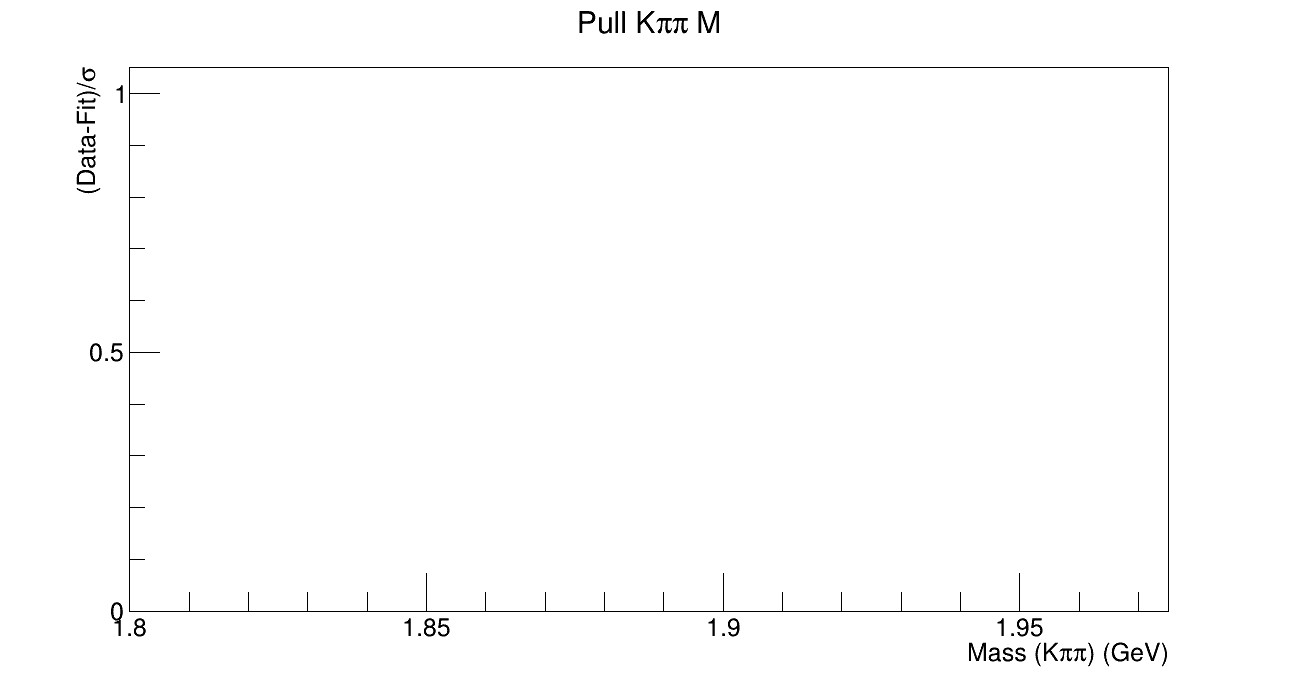
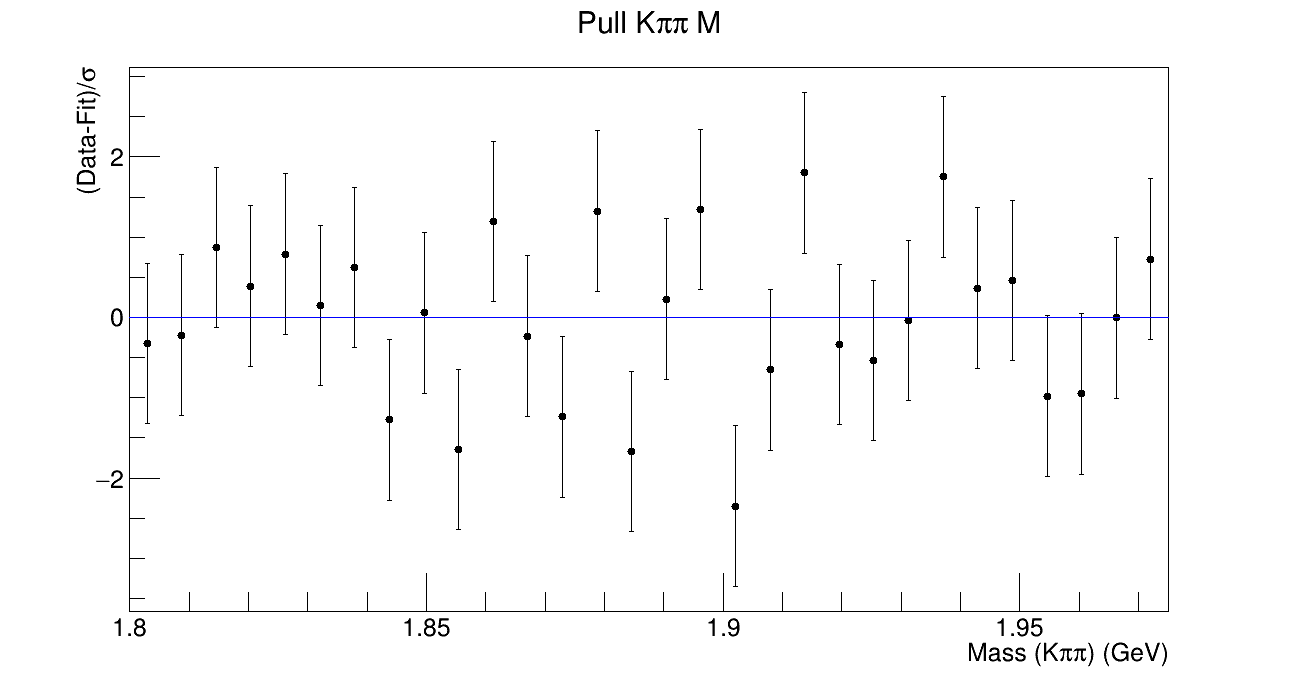
Por fin dio el Pull

diff --git a/Codes/DoubleGaussiansMC.C b/Codes/DoubleGaussiansMC.C
@@ -102,18 +102,14 @@ int DoubleGaussiansMC(){
     Data_M->plotOn(Mframe,DataError(RooAbsData::SumW2),MarkerSize(1.0),XErrorSize(0));
     MassModel.plotOn(Mframe,DrawOption("F"),FillColor(0),LineWidth(2),Name("fittotal"));
 
+    // Histograma Pull
+    RooHist* hpullm2 = Mframe->pullHist() ;
+
     // Dibujar el frame
     MassModel.plotOn(Mframe,Components(Bkg),LineColor(kBlue),LineWidth(2),LineStyle(kDashed),Name("bkg")); 
     Data_M->plotOn(Mframe,DataError(RooAbsData::SumW2),MarkerSize(1.0),XErrorSize(0),Name("Data"));
     MassModel.plotOn(Mframe);
     Mframe->SetTitle(""); 
-
-    // Histograma Pull
-    RooPlot* Pullframe = M.frame(0.14,0.16,((0.16-0.14)/0.0008)+1);
-    Data_M->plotOn(Pullframe,DataError(RooAbsData::SumW2*10),MarkerSize(1.0),XErrorSize(0));
-    MassModel.plotOn(Pullframe,DrawOption("F"),FillColor(0),LineWidth(2),Name("fittotal"));
-    RooHist* hpullm2 = Pullframe->pullHist() ;
-
 
     // Ajustes del frame
     Mframe->SetYTitle("Events / 4 MeV"); 
@@ -123,7 +119,7 @@ int DoubleGaussiansMC(){
     // Mframe->GetXaxis()->CenterTitle();
     Mframe->GetYaxis()->SetRangeUser(0, 2500);   
     Mframe->GetYaxis()->SetNdivisions(505,1);
-    Mframe->GetXaxis()->SetNdivisions(509,1);
+    Mframe->GetXaxis()->SetNdivisions(1005,1);
     Mframe->GetXaxis()->SetTickLength(0.03);    
     Mframe->GetXaxis()->SetDecimals(1); 
     Mframe->SetTitleOffset(0.85,"X");
@@ -187,6 +183,14 @@ int DoubleGaussiansMC(){
     Mframe2->SetLabelSize(0.04,"XY");
     Mframe2->SetTitleSize(0.04,"X");
     Mframe2->Draw();
+
+
+    // Linea en cero
+    TLine *line1 = new TLine(infM,0.0,supM,0.0);
+    line1->SetLineColor(4);
+    line1->SetLineWidth(1);
+    line1->Draw();
+
 
     Canvas2->Update();
 
